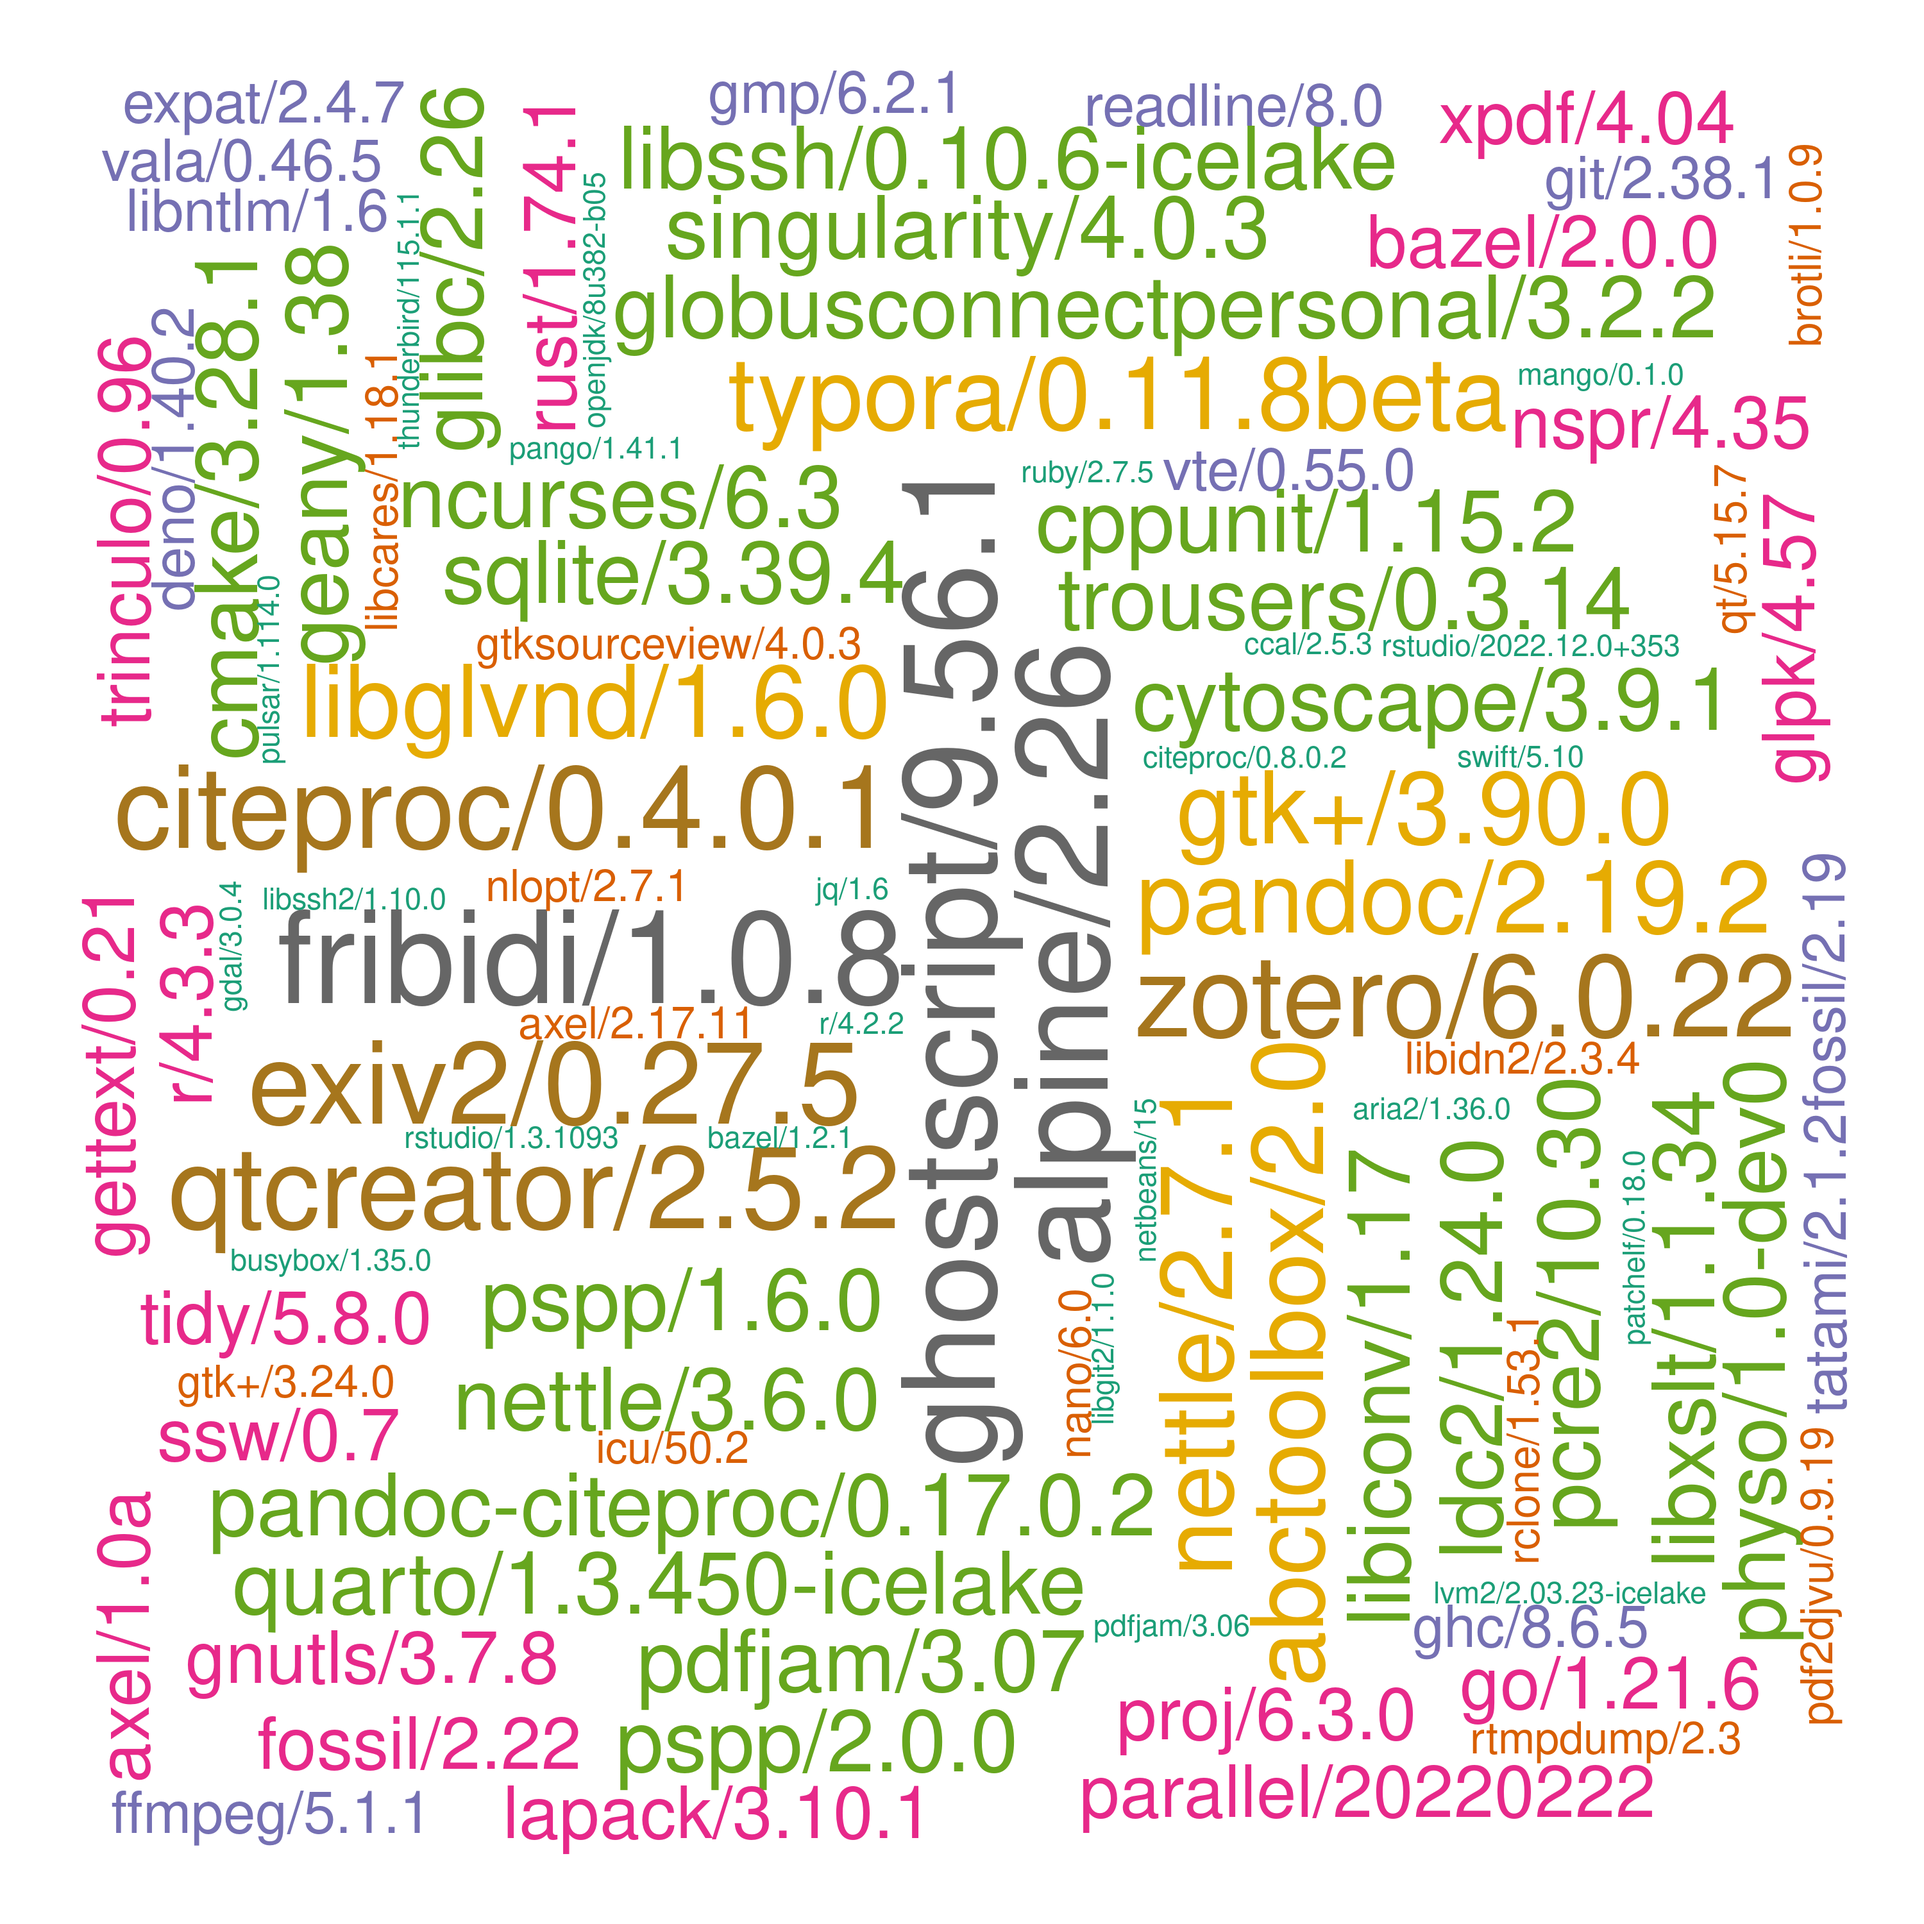
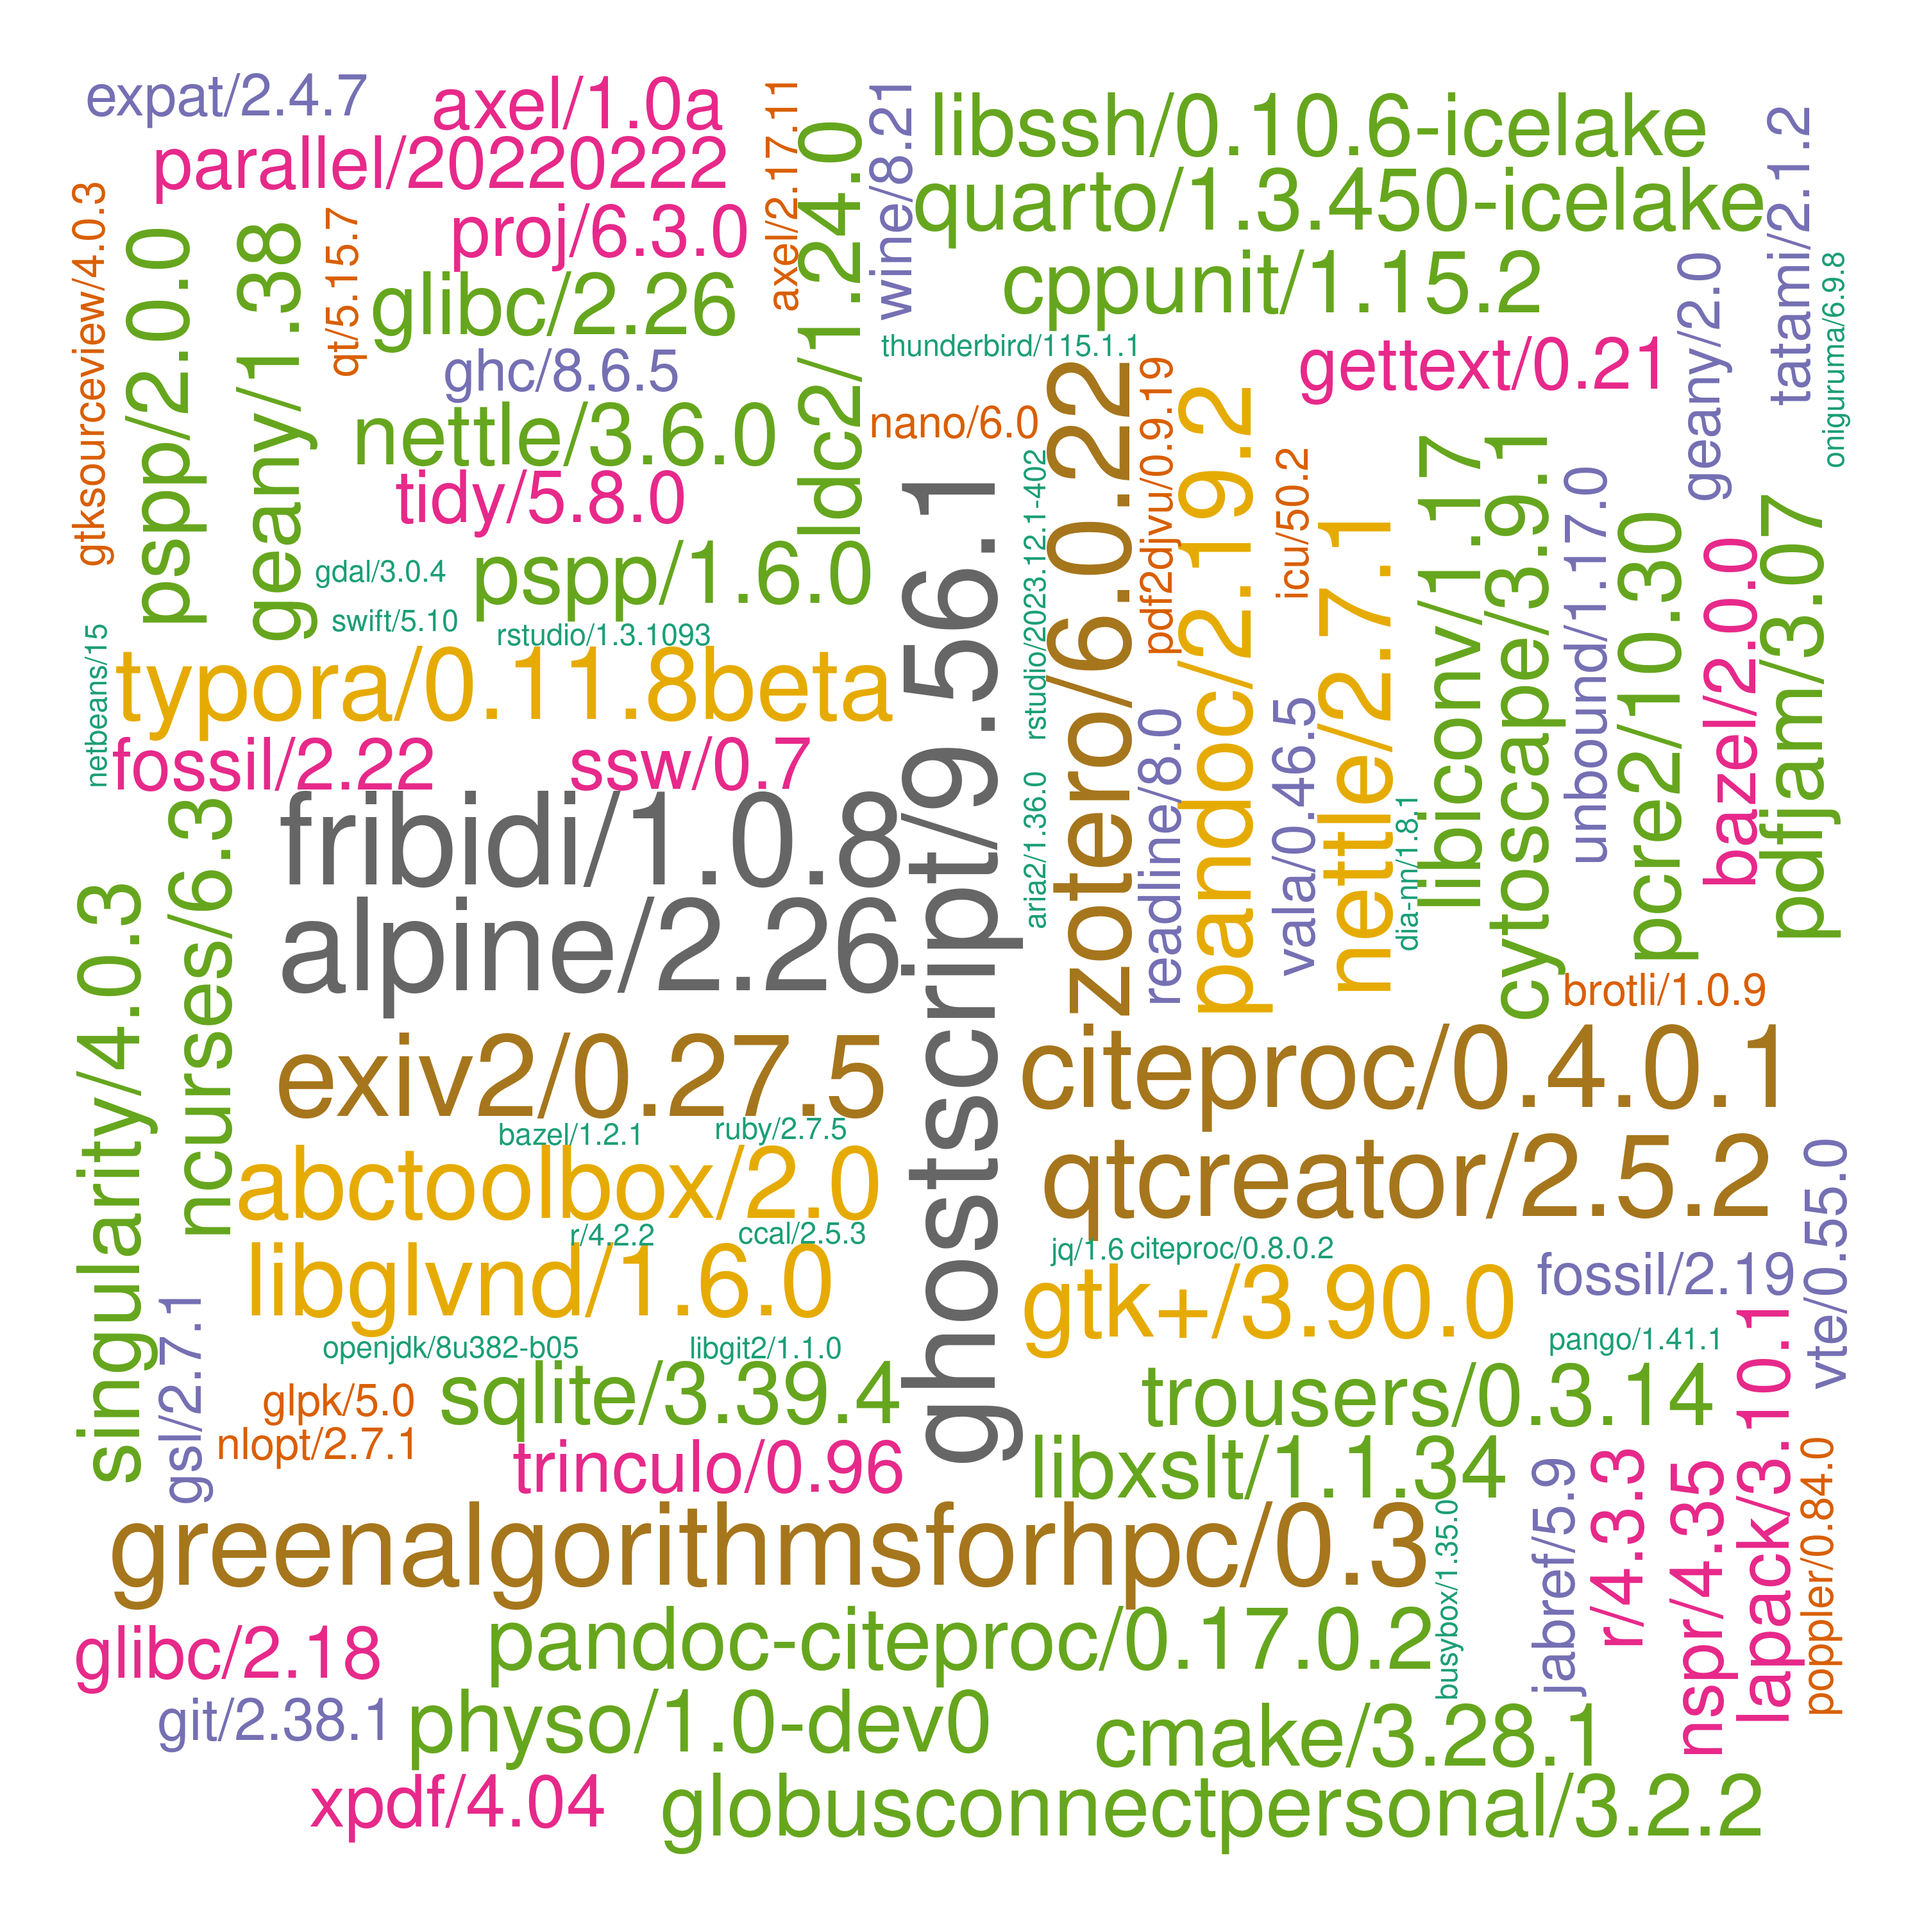
./

Changed region(s): [[0.031, 0.031, 0.961, 0.961]]

diff --git a/systems/ceuadmin.md b/systems/ceuadmin.md
@@ -8,7 +8,7 @@ The CEU software repository is here, **/usr/local/Cluster-Apps/ceuadmin/**.
 
 ![ceuadmin](ceuadmin.png)
 
-noting that the importance of software is purely random according to $$Poisson(N,\lambda)$$ where $$N=233$$, $$\lambda=3$$.
+noting that the importance of software is purely random according to $$Poisson(N,\lambda)$$ where $$N=234$$, $$\lambda=3$$.
 
 ## Entries
 
@@ -19,61 +19,61 @@ The current list is as follows,
   [5] "Anaconda3"             "annovar"               "aria2"                 "autoconf"
   [9] "automake"              "axel"                  "bazel"                 "bcftools"
  [13] "Beagle"                "bedops"                "bedtools2"             "bgen"
- [17] "biobank"               "blat"                  "boltlmm"               "brotli"
- [21] "busybox"               "CaVEMaN"               "CAVIAR"                "CAVIARBF"
- [25] "ccal"                  "circos"                "citeproc"              "cmake"
- [29] "cppunit"               "crossmap"              "crux"                  "cryptsetup"
- [33] "Cytoscape"             "deno"                  "DEPICT"                "device-mapper"
- [37] "diann"                 "DjVuLibre"             "docbook2X"             "DosageConverter"
- [41] "Eagle"                 "enchant"               "ensembl-vep"           "exiv2"
- [45] "exomeplus"             "expat"                 "FastQTL"               "fcGENE"
- [49] "ffmpeg"                "fgwas"                 "finemap"               "fossil"
- [53] "fpc"                   "fraposa_pgsc"          "fribidi"               "GARFIELD"
- [57] "gatk"                  "gcta"                  "gdal"                  "gdc"
- [61] "geany"                 "GEM"                   "GEMMA"                 "Genotype-Harmonizer"
- [65] "gettext"               "gh"                    "ghc"                   "ghostscript"
- [69] "git"                   "git-extras"            "GitKraken"             "glib"
- [73] "glibc"                 "globusconnectpersonal" "glpk"                  "gmp"
- [77] "gnutls"                "go"                    "googletest"            "graphene"
- [81] "GraphicsMagick"        "GreenAlgorithms4HPC"   "gsl"                   "gtk+"
- [85] "gtksourceview"         "gtool"                 "hpg"                   "htslib"
- [89] "hunspell"              "icu"                   "ImageJ"                "ImageMagick"
- [93] "impute"                "JabRef"                "JAGS"                  "jq"
- [97] "json-c"                "KentUtils"             "KING"                  "krb5"
-[101] "lapack"                "ldc2"                  "ldsc"                  "LDstore"
-[105] "LEMMA"                 "libcares"              "libgit2"               "libglvnd"
-[109] "libiconv"              "libidn2"               "libntlm"               "libpng"
-[113] "libseccomp"            "libsodium"             "libssh"                "libssh2"
-[117] "libuv"                 "libxml2"               "libxslt"               "locuszoom"
-[121] "LVM2"                  "MAGENTA"               "magma"                 "Mango"
-[125] "Mega2"                 "metal"                 "MONSTER"               "MORGAN"
-[129] "MR-MEGA"               "MsCAVIAR"              "nano"                  "ncbi-vdb"
-[133] "ncurses"               "netbeans"              "nettle"                "nextflow"
-[137] "nlopt"                 "NLopt"                 "node"                  "nspr"
-[141] "oniguruma"             "openjdk"               "OpenMS"                "openssh"
-[145] "openssl"               "osca"                  "p7zip-zstd"            "PAINTOR"
-[149] "pandoc"                "pandoc-citeproc"       "pango"                 "parallel"
-[153] "Pascal"                "patchelf"              "pcre2"                 "pdf2djvu"
-[157] "pdfjam"                "peer"                  "pgsc_calc"             "phenoscanner"
-[161] "PhySO"                 "picard"                "plink"                 "plink-bgi"
-[165] "plinkseq"              "PoGo"                  "polyphen"              "poppler"
-[169] "popt"                  "proj"                  "PRSice"                "pspp"
-[173] "pulsar"                "PWCoCo"                "pwiz"                  "qctool"
-[177] "qpdf"                  "qt"                    "qtcreator"             "QTLtools"
-[181] "quarto"                "quicktest"             "R"                     "raremetal"
-[185] "rclone"                "readline"              "regenie"               "regtools"
-[189] "RHHsoftware"           "rst2pdf"               "rstudio"               "rtmpdump"
-[193] "ruby"                  "rust"                  "samtools"              "Scala"
-[197] "shapeit"               "singularity"           "SMR"                   "snakemake"
-[201] "SNP2HLA"               "snptest"               "spread-sheet-widget"   "spyder"
-[205] "sqlite"                "sra-tools"             "ssw"                   "STAR"
-[209] "stata"                 "SurvivalAnalysis"      "SurvivalKit"           "Swift"
-[213] "tabix"                 "tatami"                "thunderbird"           "tidy"
-[217] "trinculo"              "trousers"              "Typora"                "unbound"
-[221] "vala"                  "VarScan"               "vcftools"              "VEGAS2"
-[225] "verifyBamID"           "VSCode"                "VSCodium"              "vte"
-[229] "wine"                  "xpdf"                  "yaml-cpp"              "Zotero"
-[233] "zstd"
+ [17] "biobank"               "blat"                  "boltlmm"               "boost"
+ [21] "brotli"                "busybox"               "CaVEMaN"               "CAVIAR"
+ [25] "CAVIARBF"              "ccal"                  "circos"                "citeproc"
+ [29] "cmake"                 "cppunit"               "crossmap"              "crux"
+ [33] "cryptsetup"            "Cytoscape"             "deno"                  "DEPICT"
+ [37] "device-mapper"         "diann"                 "DjVuLibre"             "docbook2X"
+ [41] "DosageConverter"       "Eagle"                 "enchant"               "ensembl-vep"
+ [45] "exiv2"                 "exomeplus"             "expat"                 "FastQTL"
+ [49] "fcGENE"                "ffmpeg"                "fgwas"                 "finemap"
+ [53] "fossil"                "fpc"                   "fraposa_pgsc"          "fribidi"
+ [57] "GARFIELD"              "gatk"                  "gcta"                  "gdal"
+ [61] "gdc"                   "geany"                 "GEM"                   "GEMMA"
+ [65] "Genotype-Harmonizer"   "gettext"               "gh"                    "ghc"
+ [69] "ghostscript"           "git"                   "git-extras"            "GitKraken"
+ [73] "glib"                  "glibc"                 "globusconnectpersonal" "glpk"
+ [77] "gmp"                   "gnutls"                "go"                    "googletest"
+ [81] "graphene"              "GraphicsMagick"        "GreenAlgorithms4HPC"   "gsl"
+ [85] "gtk+"                  "gtksourceview"         "gtool"                 "hpg"
+ [89] "htslib"                "hunspell"              "icu"                   "ImageJ"
+ [93] "ImageMagick"           "impute"                "JabRef"                "JAGS"
+ [97] "jq"                    "json-c"                "KentUtils"             "KING"
+[101] "krb5"                  "lapack"                "ldc2"                  "ldsc"
+[105] "LDstore"               "LEMMA"                 "libcares"              "libgit2"
+[109] "libglvnd"              "libiconv"              "libidn2"               "libntlm"
+[113] "libpng"                "libseccomp"            "libsodium"             "libssh"
+[117] "libssh2"               "libuv"                 "libxml2"               "libxslt"
+[121] "locuszoom"             "LVM2"                  "MAGENTA"               "magma"
+[125] "Mango"                 "Mega2"                 "metal"                 "MONSTER"
+[129] "MORGAN"                "MR-MEGA"               "MsCAVIAR"              "nano"
+[133] "ncbi-vdb"              "ncurses"               "netbeans"              "nettle"
+[137] "nextflow"              "nlopt"                 "NLopt"                 "node"
+[141] "nspr"                  "oniguruma"             "openjdk"               "OpenMS"
+[145] "openssh"               "openssl"               "osca"                  "p7zip-zstd"
+[149] "PAINTOR"               "pandoc"                "pandoc-citeproc"       "pango"
+[153] "parallel"              "Pascal"                "patchelf"              "pcre2"
+[157] "pdf2djvu"              "pdfjam"                "peer"                  "pgsc_calc"
+[161] "phenoscanner"          "PhySO"                 "picard"                "plink"
+[165] "plink-bgi"             "plinkseq"              "PoGo"                  "polyphen"
+[169] "poppler"               "popt"                  "proj"                  "PRSice"
+[173] "pspp"                  "pulsar"                "PWCoCo"                "pwiz"
+[177] "qctool"                "qpdf"                  "qt"                    "qtcreator"
+[181] "QTLtools"              "quarto"                "quicktest"             "R"
+[185] "raremetal"             "rclone"                "readline"              "regenie"
+[189] "regtools"              "RHHsoftware"           "rst2pdf"               "rstudio"
+[193] "rtmpdump"              "ruby"                  "rust"                  "samtools"
+[197] "Scala"                 "shapeit"               "singularity"           "SMR"
+[201] "snakemake"             "SNP2HLA"               "snptest"               "spread-sheet-widget"
+[205] "spyder"                "sqlite"                "sra-tools"             "ssw"
+[209] "STAR"                  "stata"                 "SurvivalAnalysis"      "SurvivalKit"
+[213] "Swift"                 "tabix"                 "tatami"                "thunderbird"
+[217] "tidy"                  "trinculo"              "trousers"              "Typora"
+[221] "unbound"               "vala"                  "VarScan"               "vcftools"
+[225] "VEGAS2"                "verifyBamID"           "VSCode"                "VSCodium"
+[229] "vte"                   "wine"                  "xpdf"                  "yaml-cpp"
+[233] "Zotero"                "zstd"
 ```
 
 These are wrapped up as :star::star::star: **[modules](https://modules.readthedocs.io/en/latest/index.html)** :star::star::star:.

diff --git a/systems/setup.md b/systems/setup.md
@@ -277,6 +277,7 @@ All entries are ordered chronologically.
 | ""          | DIA-NN/1.8.1                     | Generics             |
 | 2024-06-10  | patchelf/0.18.0                  | Generic              |
 | ""          | wine/8.21                        | Generic[^wine]       |
+| ""          | boost/1.76.0                     | Generic[^boost]      |
 
 \* CEU or approved users only.
 
@@ -921,6 +922,8 @@ They are generated from script [setup.sh](setup.sh),
     export PERL5LIB=
     module load ceuadmin/openssh/9.7p1-icelake \
                 ceuadmin/openssl/3.2.1-icelake \
+                ceuadmin/libssh/0.10.6-icelake \
+                ceuadmin/boost/1.76.0 \
                 ceuadmin/krb5/1.21.2-icelake ceuadmin/p7zip-zstd/17.05
     cmake .
     make
@@ -949,19 +952,19 @@ They are generated from script [setup.sh](setup.sh),
 
     See `build/src/ProteoWizard/libraries`. Under CentOS 7, it cannot access `https://noble.gs.washington.edu/crux-downloads/pwiz-src-3_0_24044_fd6604f.tar.bz2`.
 
-    There is a FAQ section from PrteoWizard (<https://raw.githubusercontent.com/ProteoWizard/pwiz/981c7c70bfed46a145931dbea4da9e2edde72cf5/scripts/autotools/FAQ>) on boost which is copied here,
+    There is a FAQ section from PrteoWizard (<https://raw.githubusercontent.com/ProteoWizard/pwiz/981c7c70bfed46a145931dbea4da9e2edde72cf5/scripts/autotools/FAQ>),
+
+[^boost]: **boost**
 
     ```bash
-    cd /usr/local/src/
-    wget http://sourceforge.net/projects/boost/files/boost/1.49.0/boost_1_49_0.tar.gz/download
-    tar xvzf boost_1_49_0.tar.gz
-    cd boost_1_49_0
+    wget -qO- http://sourceforge.net/projects/boost/files/boost/1.76.0/boost_1_76_0.tar.gz | \
+    tar xvzf -
+    cd boost_1_76_0
     ./bootstrap.sh
+    ./b2 --prefix=$CEUADMIN/boost/1.76.0 install
     ./bjam --with-regex --with-filesystem --with-iostreams --with-thread --with-program_options --with-serialization --with-system --with-date_time install
-    export BOOST_ROOT=/usr/local/src/boost_1_49_0
+    export BOOST_ROOT=/usr/local/src/boost_1_76_0
     ```
-
-     where the relevant version here is 1_76_0.
 
 [^p7zip-zstd]: **p7zip-zstd**
 
